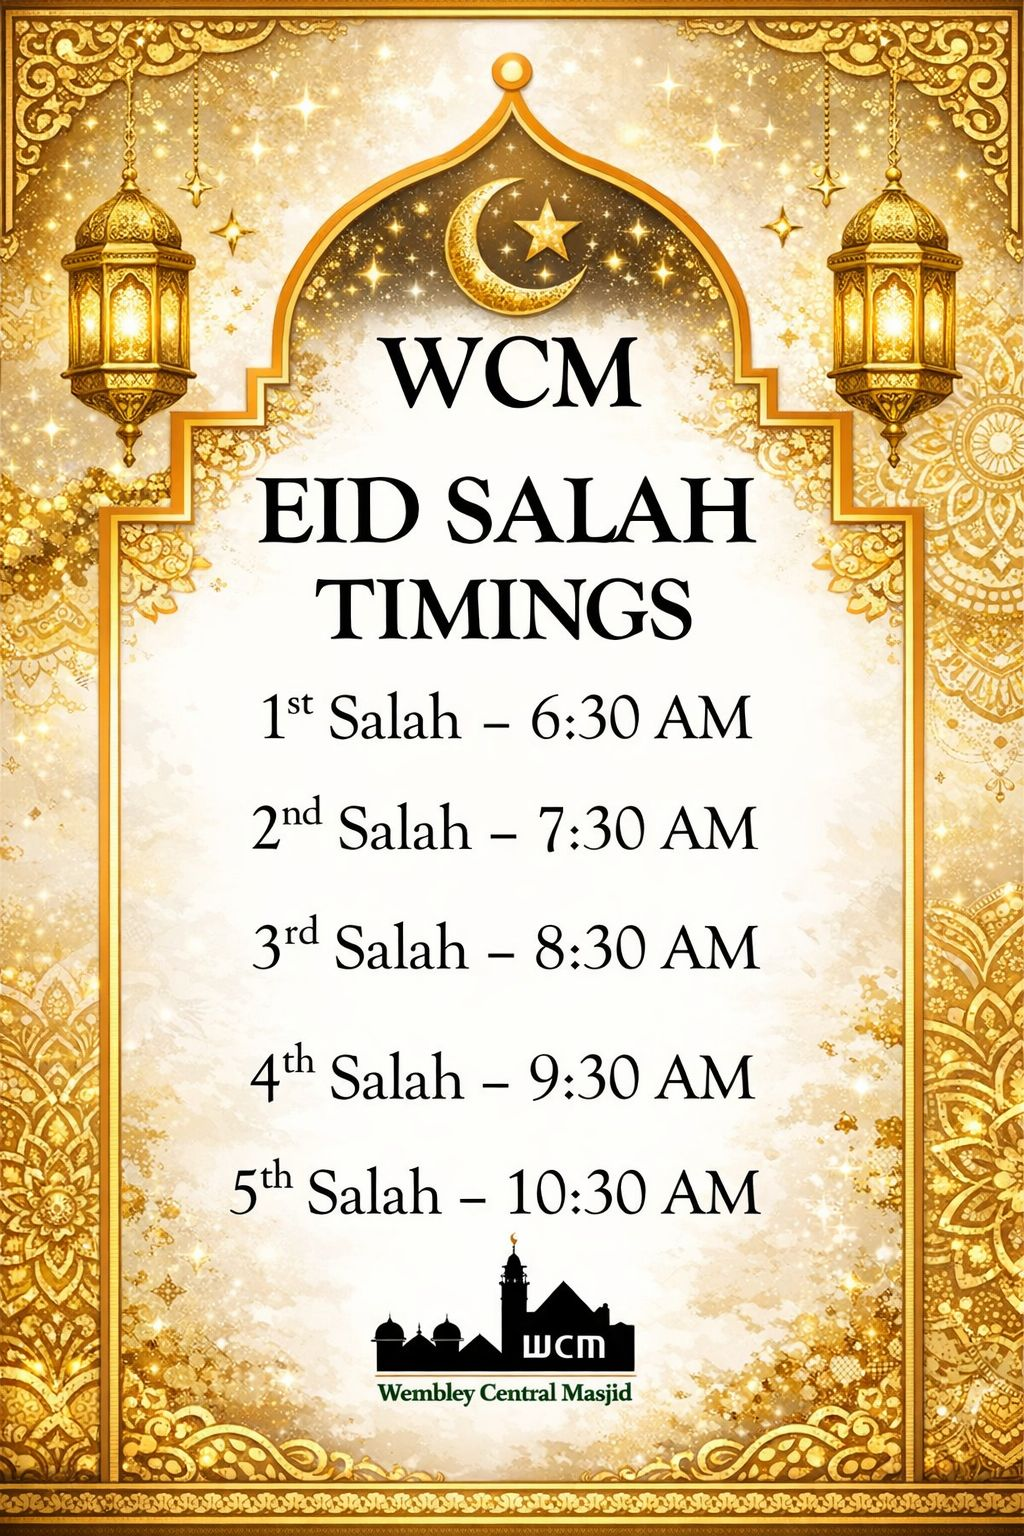
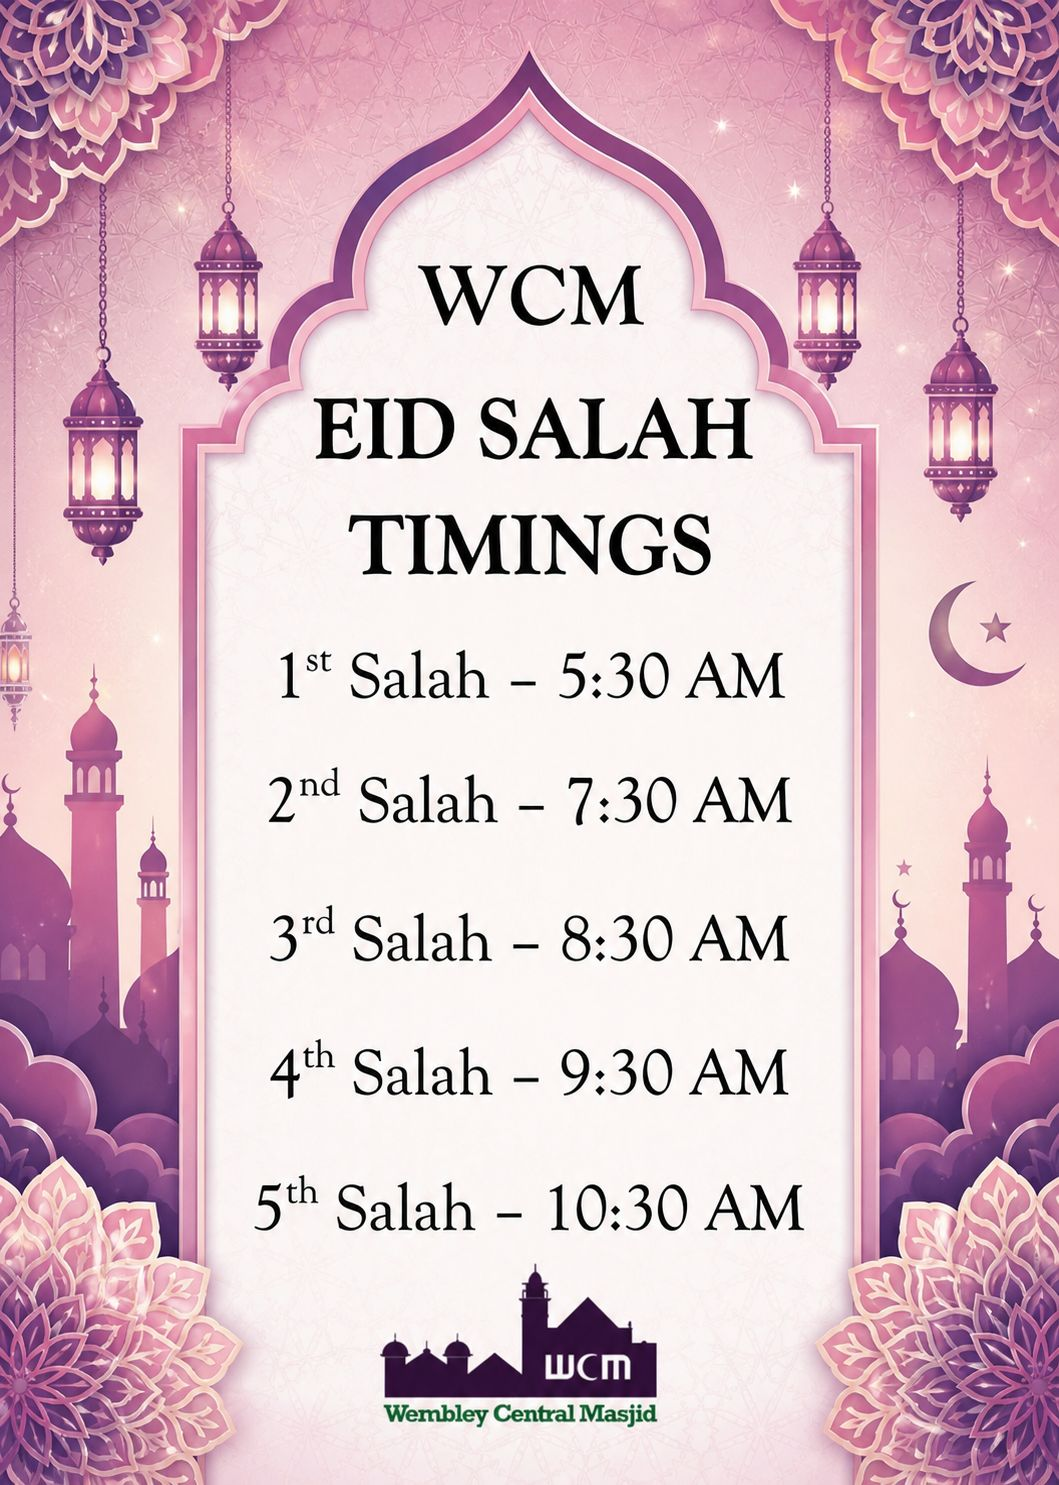
eid and family fun posters

diff --git a/data/content.js b/data/content.js
@@ -12,6 +12,14 @@ App.content = [
     },
     {
         "image": "tafseer_maghrib.jpg"
+    },
+    {
+        "image": "eid.jpg",
+        "toDate": "2026-05-27 10:30:00"
+    },
+    {
+        "image": "family_fun.jpg",
+        "toDate": "2026-06-07 19:30:00"
     }
 /*    {
         "image": "page_2.jpg",